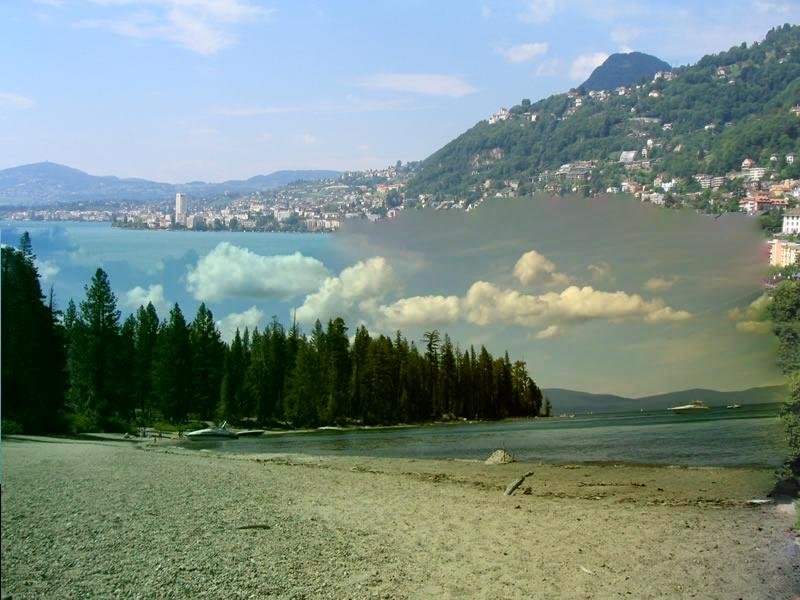
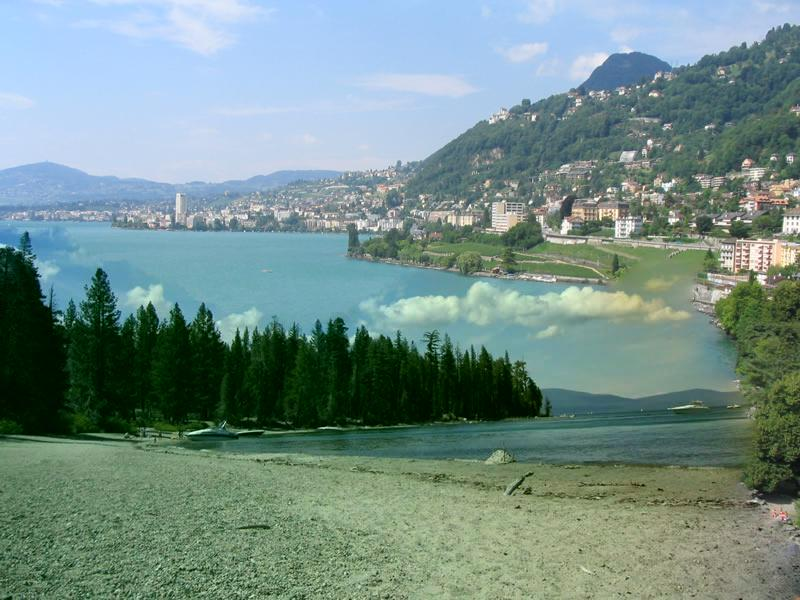
稍微优化了不规则cut,去掉了排序请手动选择最好的5张 = =

Changed region(s): [[0.2188, 0.3, 1.0, 0.9], [0.7812, 0.66, 0.8125, 0.69]]

diff --git a/part2/find_mask.m b/part2/find_mask.m
@@ -1,4 +1,4 @@
-function [mask, score] = find_mask(patch, sample, bdtop, bdbottom, bdleft, bdright)
+function [mask, score] = find_mask(patch, sample, objmask, bdtop, bdbottom, bdleft, bdright)
 
 	% return mask & score (sum of mincost for 4 masks)
 
@@ -7,30 +7,55 @@ function [mask, score] = find_mask(patch, sample, bdtop, bdbottom, bdleft, bdrig
 	score = 0;
 	
 	% mask 1: LEFT: MP2
-	errpatch = buildErrpatch(permute(patch(:, 1:bdleft, :), [2 1 3]), permute(sample(:, 1:bdleft, :), [2 1 3]));
+	errpatch = buildErrpatch(permute(patch(:, 1:bdleft, :), [2 1 3]), permute(sample(:, 1:bdleft, :), [2 1 3]), permute(objmask(:, 1:bdleft, :), [2 1 3]));
 	[curr, cost] = cut(errpatch);
-	score = score + cost;
-	mask1 = [curr; ones(patchw - bdleft, patchh)];
-	mask1 = transpose(mask1);
+	if cost < 200
+		score = score + cost;
+		mask1 = [curr; ones(patchw - bdleft, patchh)];
+		mask1 = transpose(mask1);
+	else
+		mask1 = ones(patchh, patchw);
+	end
+% 	disp(cost);
+% 	imshow(mask1);
 
 	% mask 2: RIGHT
-	errpatch = buildErrpatch(permute(patch(:, patchw-bdright+1:patchw, :), [2 1 3]), permute(sample(:, patchw-bdright+1:patchw, :), [2 1 3]));
+	errpatch = buildErrpatch(permute(patch(:, patchw-bdright+1:patchw, :), [2 1 3]), permute(sample(:, patchw-bdright+1:patchw, :), [2 1 3]), permute(objmask(:, patchw-bdright+1:patchw, :), [2 1 3]));
 	[curr, cost] = cut(errpatch);
-	score = score + cost;
-	mask2 = [ones(patchw - bdright, patchh); ~curr];
-	mask2 = transpose(mask2);
+	if cost < 200
+		score = score + cost;
+		mask2 = [ones(patchw - bdright, patchh); ~curr];
+		mask2 = transpose(mask2);
+	else
+		mask2 = ones(patchh, patchw);
+	end
+% 	imshow(mask2);
+% 	disp(cost);
 
 	% mask 3: TOP: MP2
-	errpatch = buildErrpatch(patch(1:bdtop, :, :), sample(1:bdtop, :, :));
+	errpatch = buildErrpatch(patch(1:bdtop, :, :), sample(1:bdtop, :, :), objmask(1:bdtop, :, :));
 	[curr, cost] = cut(errpatch);
-	score = score + cost;
-	mask3 = [curr; ones(patchh - bdtop, patchw)];
+	if cost < 300
+		score = score + cost;
+		mask3 = [curr; ones(patchh - bdtop, patchw)];
+	else
+		mask3 = ones(patchh, patchw);
+	end
+		
+% 	disp(cost);
+% 	imshow(mask3);
 
 	% mask 4: BOTTOM
-	errpatch = buildErrpatch(patch(patchh-bdbottom+1:patchh, :, :), sample(patchh-bdbottom+1:patchh, :, :));
+	errpatch = buildErrpatch(patch(patchh-bdbottom+1:patchh, :, :), sample(patchh-bdbottom+1:patchh, :, :), objmask(patchh-bdbottom+1:patchh, :, :));
 	[curr, cost] = cut(errpatch);
-	score = score + cost;
-	mask4 = [ones(patchh - bdbottom, patchw); ~curr];
+	if cost < 300
+		score = score + cost;
+		mask4 = [ones(patchh - bdbottom, patchw); ~curr];
+	else
+		mask4 = ones(patchh, patchw);
+	end
+% 	disp(cost);
+% 	imshow(mask4);
 
 	mask = mask1 & mask2 & mask3 & mask4; % find center region
 	
@@ -38,13 +63,15 @@ function [mask, score] = find_mask(patch, sample, bdtop, bdbottom, bdleft, bdrig
 	% to prevent a bug in poisson blending _(:???)_
 	for i=2:patchh-1
 		for j=2:patchw-1
-			if mask(i, j) == 1 && sum(sum(mask(i-1:i+1, j-1:j+1))) < 4
+			if mask(i, j) == 1 && sum(sum(mask(i-1:i+1, j-1:j+1))) < 3
 				mask(i, j) = 0;
 			end
 		end
 	end
+
+	mask = objmask(:, :, 1) | mask;
+	imshow(mask);
 	
 	mask = cat(3, mask, mask, mask);
-% 	score
 
 end

diff --git a/part2/local_matching_single.m b/part2/local_matching_single.m
@@ -7,7 +7,7 @@ function local_matching_single(loc, withmask)
 	if withmask == false
 		% get mask
 		objmask = getMask(target);
-		imwrite(objmask, 'mask.jpg');
+		imwrite(objmask, sprintf('%s/mask.jpg', loc));
 		objmask = cat(3, objmask, objmask, objmask);
 	else
 		objmask = im2double(imread('mask.jpg'));
@@ -17,15 +17,27 @@ function local_matching_single(loc, withmask)
 	[h, w, k] = size(target);
 	[h1, w1, h2, w2] = find_rect(target);
 
-	border = 100;
+	border = 80;
 	top = max(1, h1 - border); % overflow
 	bottom = min(h, h2 + border); 
 	left = max(1, w1 - border); 
 	right = min(w, w2 + border);
-	bdtop = min(border, h1 - 1); % valid cut region
+	bdtop = min(border, h1);
 	bdbottom = min(border, h - h2);
-	bdleft = min(border, w1 - 1);
+	bdleft = min(border, w1);
 	bdright = min(border, w - w2);
+	if sum(sum(sum(~objmask(h1, w1:w2, :)))) > 20
+		bdtop = bdtop + min(border, (h2 - h1) / 2); % valid cut region
+	end
+	if sum(sum(sum(~objmask(h2, w1:w2, :)))) > 20
+		bdbottom = bdbottom + min(border, (h2 - h1) / 2); % valid cut region
+	end
+	if sum(sum(sum(~objmask(h1:h2, w1, :)))) > 20
+		bdleft = bdleft + min(border, (w2 - w1) / 2); % valid cut region
+	end
+	if sum(sum(sum(~objmask(h1:h2, w2, :)))) > 20
+		bdright = bdright + min(border, (w2 - w1) / 2); % valid cut region
+	end
 
 	%% to show rectangle (debug)
 	% figure
@@ -52,9 +64,11 @@ function local_matching_single(loc, withmask)
 	fclose(fid);
 	
 	%% add for loop here
-	score_list = zeros(20, 1);
+	score_list = zeros(19, 1);
 	dinfo = dir(sprintf('%s/20*.jpg', loc));
 	c1 = containers.Map;
+	objmask_new = objmask(top:bottom, left:right, :);
+	patch = target(top:bottom, left:right, :);
 	for i = 1:length(dinfo)
 		
 		thisfilename = dinfo(i).name;
@@ -63,9 +77,8 @@ function local_matching_single(loc, withmask)
 		im = im2double(imread(thisfilename)); % choose top 20 semantic matching images
 		
 		%% find mask
-		patch = target(top:bottom, left:right, :);
 		sample = im(top:bottom, left:right, :);
-		[mask, cutcost] = find_mask(patch, sample, bdtop, bdbottom, bdleft, bdright);
+		[mask, cutcost] = find_mask(patch, sample, objmask_new, bdtop, bdbottom, bdleft, bdright);
 
 		%% blending
 		mask_s = zeros(h, w, 3); % same size as background
@@ -77,16 +90,16 @@ function local_matching_single(loc, withmask)
 		% imshow(poisson);
 		imwrite(poisson, sprintf('%s/after%d.jpg', loc, i));
 		% NO [index] with cost [cost];
-		score_list(i) = cutcost * 10^(-6) + blendcost * 10^(-1) + 2*c(thisfilename); % sum of 4 cut cost	
+		score_list(i) = cutcost * 10^(-2) + blendcost * 10^(-1) + 2*c(thisfilename); % sum of 4 cut cost	
 		fprintf('No. %d %s with cost %f\n', i, thisfilename, score_list(i));  	
 	end
 	
 	% find min5
-	sorted = sort(score_list);
-	for i = 1:5 % best 5
-		idx = find(score_list == sorted(i));
-		% BEST [rank]: [index] with cost [cost]
-		fprintf('BEST %d: no. %d %s with cost %f\n', i, idx, c1(int2str(idx)), score_list(idx));
-	end
+% 	sorted = sort(score_list);
+% 	for i = 1:5 % best 5
+% 		idx = find(score_list == sorted(i));
+% 		% BEST [rank]: [index] with cost [cost]
+% 		fprintf('BEST %d: no. %d %s with cost %f\n', i, idx, c1(int2str(idx)), score_list(idx));
+% 	end
 
 end

diff --git a/part2/buildErrpatch.m b/part2/buildErrpatch.m
@@ -1,4 +1,4 @@
-function errpatch = buildErrpatch(patch, im)
+function errpatch = buildErrpatch(patch, im, objmask)
 
 errpatch = patch(:,:,1);
 patch = rgb2lab(patch);
@@ -7,6 +7,11 @@ im = rgb2lab(im);
 diff = (patch - im).^2;
 for i = 1:h
 	for j = 1:w
-		errpatch(i,j) = sum(diff(i,j));
+		if objmask(i, j) == 1
+			errpatch(i,j) = 1000;
+		else
+			errpatch(i,j) = sum(diff(i,j));
+		end
 	end
 end
+% disp(max(max(errpatch(i,j))));

diff --git a/part2/local_matching.m b/part2/local_matching.m
@@ -3,7 +3,7 @@ function local_matching(~)
 	% starter code for local context matching
 	close all
 
-% 	local_matching_single('../gist_res/input', false);
-	local_matching_single('../gist_res/test2', true);
+	local_matching_single('../gist_res/test1', false);
+% 	local_matching_single('../gist_res/test2', true);
 
 end

diff --git a/part2/cut.m b/part2/cut.m
@@ -40,5 +40,5 @@ for x = numel(bestpath):-1:2
 end
 mask = ~mask;
 
-mincost = min(cost(:, end)); % ADD
+mincost = min(cost(:, end)) / w; % ADD
 
